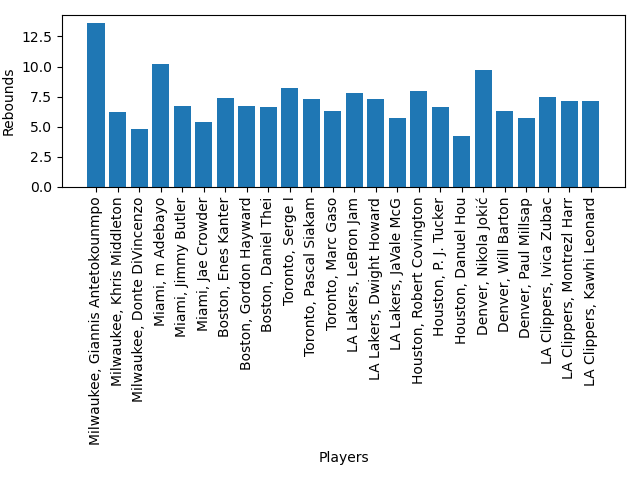
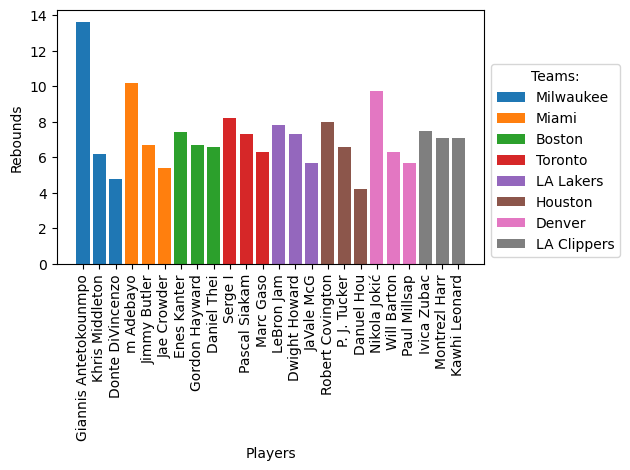
Group teams by color

diff --git a/assignment5/fetch_player_statistics.py b/assignment5/fetch_player_statistics.py
@@ -1,6 +1,8 @@
 from bs4 import BeautifulSoup
 import requests as req
 import matplotlib.pyplot as plt
+import json
+import os
 """
 This program will take use a wikipedia article about a season of the NBA playoffs 
 and find all the teams in the conference semifinals. Then it will find all the 
@@ -132,19 +134,25 @@ def plot(top_players, typep):
     returns: 
         None
     """
-    points = []
+
     labels = []
+    all_points = []
     for team_stat in top_players:
         for name in team_stat:
+            points = []
             for players in team_stat.values():
                 for player in players:
-                    labels.append(f"{name}, {player[0]}")
+                    labels.append(f"{player[0]}")
                     if typep == "ppg":
                         points.append(player[1][0])
                     elif typep == "bpg":
                         points.append(player[1][1])
                     elif typep == "rbg":
                         points.append(player[1][2])
+
+            all_points.extend(points)
+            plt.bar(range(len(all_points) - len(points), len(all_points)), points, label=name)
+
     plt.xlabel("Players")
     if typep == "ppg":
         plt.ylabel("Points")
@@ -153,31 +161,40 @@ def plot(top_players, typep):
     elif typep == "rbg":
         plt.ylabel("Rebounds")
     
-    plt.bar(range(len(points)), points)
-    plt.xticks(range(len(points)), labels, rotation=90)
+
+    plt.xticks(range(len(all_points)), labels, rotation=90)
+    plt.legend(title="Teams:", loc="lower left", bbox_to_anchor=(1, 0))
     plt.tight_layout()
     
-    plt.savefig(f"./NBA_player_statistics/players_over_{typep}.png")
+    plt.savefig(f"./NBA_player_statistics/players_over_{typep}.png", bbox_inches='tight')
+
+    plt.show()
     plt.close()  
     
 
 def main():
-    resp = req.get('https://en.wikipedia.org/wiki/2020_NBA_playoffs')
-    team_names = []
-    team_list = extract_url(resp)
-    team_players = extract_player_url(team_list)
+    stats_file = "NBA_player_statistics/stats.json"
+    if os.path.exists(stats_file):
+        team_players = json.load(open(stats_file))
+    else:
 
-    for team in team_players:
-        team_names.append(team)
+        resp = req.get('https://en.wikipedia.org/wiki/2020_NBA_playoffs')
+        team_names = []
+        team_list = extract_url(resp)
+        team_players = extract_player_url(team_list)
 
-    for team in team_players:
-        stats = []
-        for player in team_players[team]:
-            stat = extract_player_statistics(player)
-            if stat[1] != []: # used to filter out the players that doesnt have stats for that season
-                stats.append(stat)
-        team_players[team] = stats
+        for team in team_players:
+            team_names.append(team)
 
+        for team in team_players:
+            stats = []
+            for player in team_players[team]:
+                stat = extract_player_statistics(player)
+                if stat[1] != []: # used to filter out the players that doesnt have stats for that season
+                    stats.append(stat)
+            team_players[team] = stats
+
+        json.dump(team_players, open(stats_file, 'w'))
 
     top_players_ppg = []
     top_players_bpg = []

diff --git a/assignment5/time_planner.py b/assignment5/time_planner.py
@@ -71,13 +71,29 @@ def extract_events(url):
     return table_list
 
 def get_captions(table):
-    captions = table.find('caption').text
-    print(captions)
+    """
+    Take a bs4 table as input, returning a dictionary of discipline codes mapped to discipline names
 
+    parameters:
+        table (bs4.element.Tag): Table containing the captions
+
+    returns:
+        dict: Dictionary mapping discipline codes to names
+    """
+    captions = table.find('caption')
+    if not captions:
+        return
+
+    captions = captions.text
+    #print(captions)
+
+    # find captured group containing 2 uppercase letters, followed by whitespace, '-' and more whitespace
+    # then another captured group that contains one or more non-capturing group of one word
+    # (several letters followed by non-greedy whitespace), ending on a comma or end of line
     pattern = r"([A-Z]{2})\s–\s((?:\w+\s??)+?)(?:,|$)"
-    print (re.findall(pattern, captions))
+    #print (re.findall(pattern, captions))
     res = {match[0]: match[1] for match in re.findall(pattern, captions)}
-    print(res)
+    #print(res)
     return res
 
             
